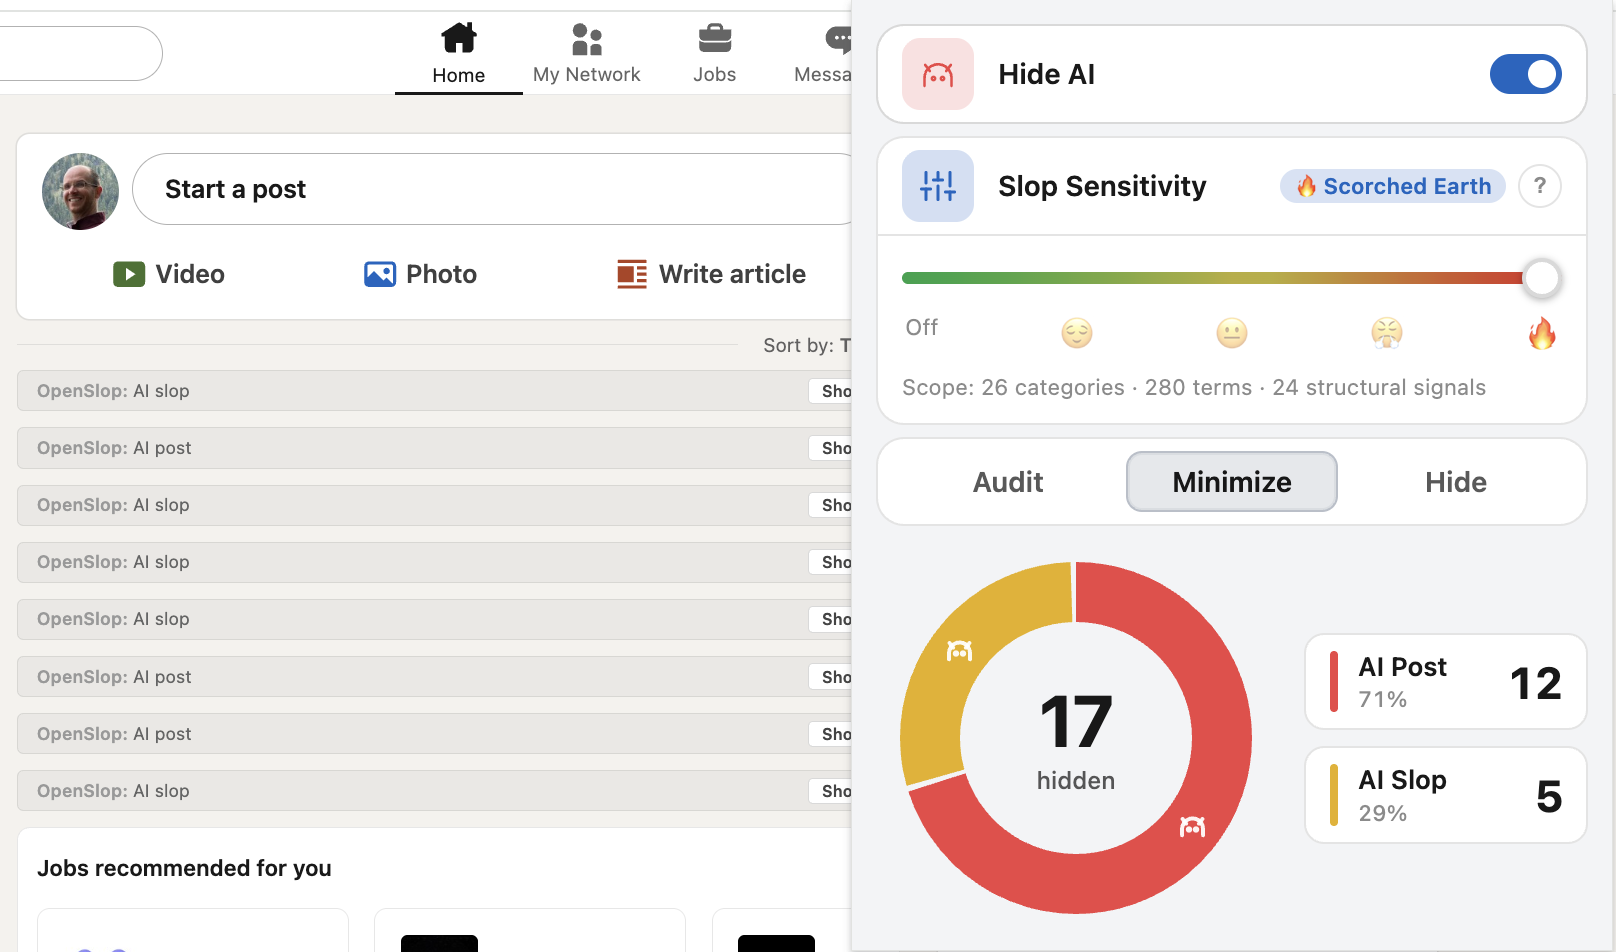
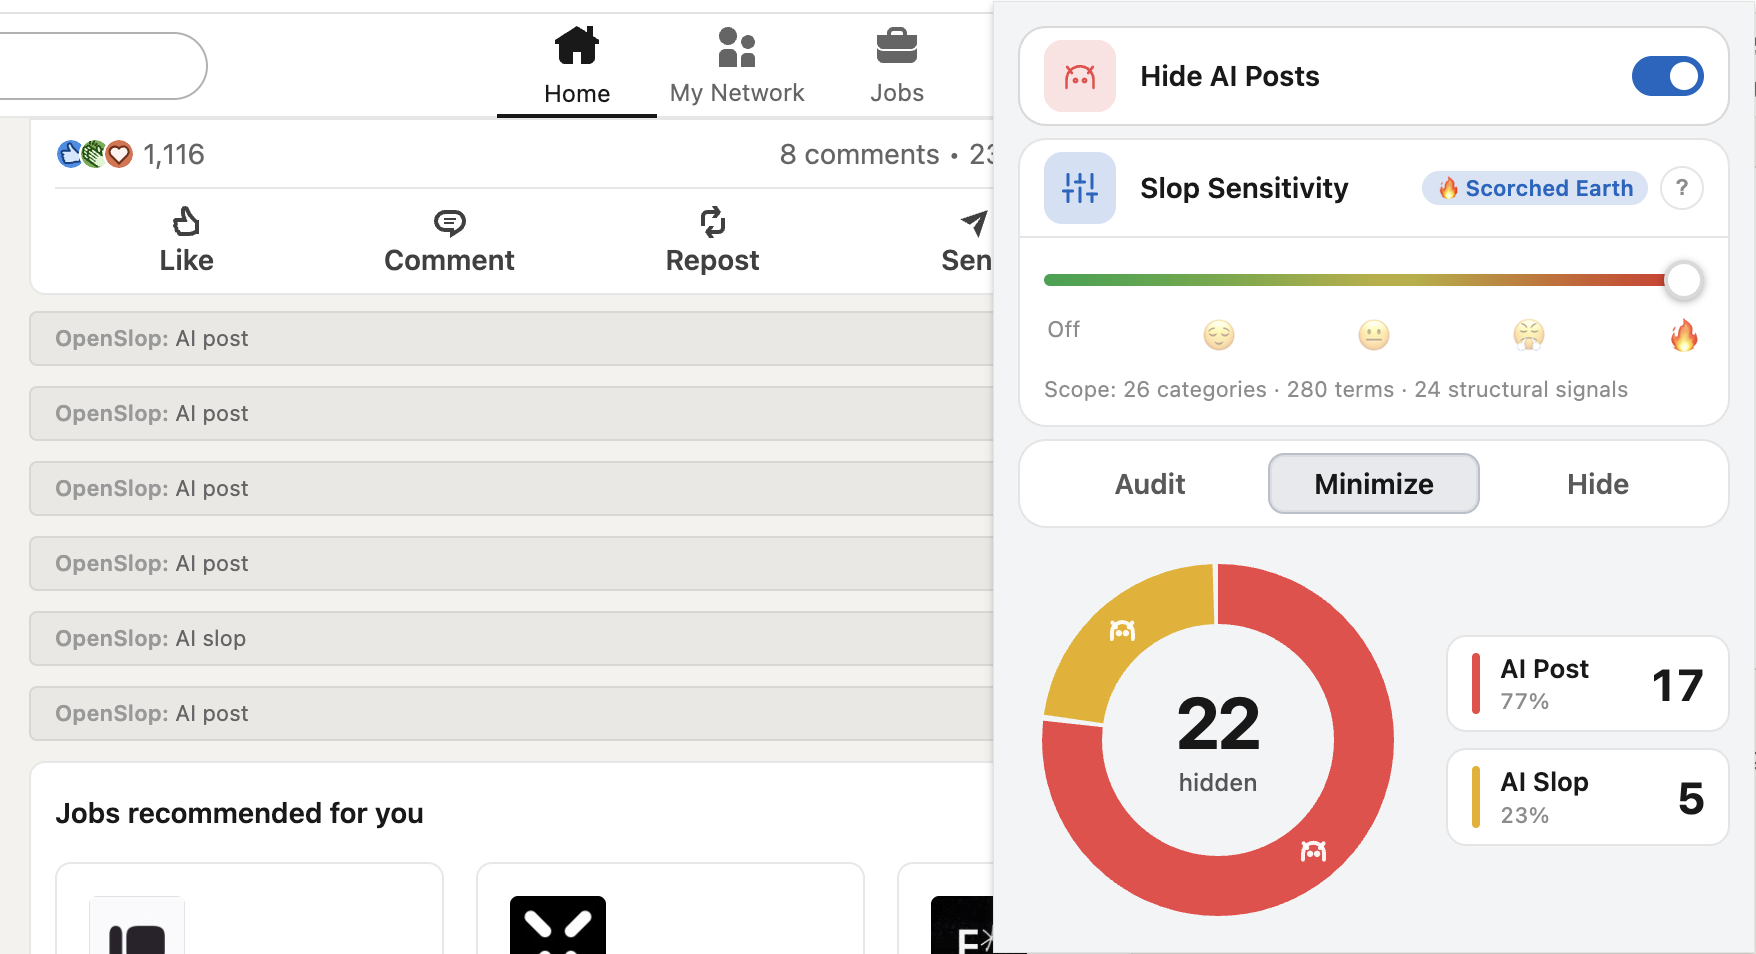
Regenerate popup-screenshot.png — clean viewport, current label
- New capture shows the renamed "Hide AI Posts" toggle (was "Hide AI"
  in the old screenshot) so the README image matches the live UI.
- Top-left now shows the engagement bar of an existing post instead
  of the "Start a post" card, so the personal LinkedIn profile
  thumbnail is no longer visible.
- README alt text updated: donut now shows 22 hidden (AI Post 17 /
  AI Slop 5) instead of 17 / 12 / 5; alt text updated to match.

CHANGELOG: removed the "screenshot needs regeneration" note in
[Unreleased] since the regeneration is happening in this commit, and
added a positive entry noting what was done.

diff --git a/CHANGELOG.md b/CHANGELOG.md
@@ -13,11 +13,12 @@ project follows [Semantic Versioning](https://semver.org/spec/v2.0.0.html).
   glance. Aria-label updated to match. The slop slider keeps its
   "Slop Sensitivity" title, and the on-screen sensitivity badge
   ("Off / Light / Medium / Strict / 🔥 Scorched Earth") and per-level
-  forecast drawer are untouched. Note: `docs/popup-screenshot.png`
-  still shows "Hide AI" and needs regeneration. When regenerating,
-  also scrub the personal LinkedIn profile thumbnail visible in the
-  "Start a post" card (top-left of frame) — use an anonymized account
-  or crop / blur that region before committing.
+  forecast drawer are untouched.
+- **`docs/popup-screenshot.png` regenerated** to show the current
+  "Hide AI Posts" label, captured from a viewport with no personal
+  profile thumbnail visible. Donut counters reflect a longer session
+  (22 hidden — AI Post 17 / AI Slop 5). README alt text updated to
+  match the new counts.
 - **Fresh-install defaults raised to "filter on, filter hard."**
   `HU.DEFAULT_SETTINGS.slopSensitivityLevel` 0 → 4 (Scorched Earth)
   and `HU.DEFAULT_SETTINGS.aiFilterEnabled` false → true, so a

diff --git a/README.md b/README.md
@@ -54,7 +54,7 @@ can be dropped in without touching the rest.
 
 ## What it does
 
-![OpenSlop popup overlaid on a feed page, showing the Hide AI Posts toggle, the Slop Sensitivity slider at Scorched Earth, the Audit/Minimize/Hide segmented control, and a session donut chart with 17 hidden items split between AI Post and AI Slop categories.](./docs/popup-screenshot.png)
+![OpenSlop popup overlaid on a feed page, showing the Hide AI Posts toggle, the Slop Sensitivity slider at Scorched Earth, the Audit/Minimize/Hide segmented control, and a session donut chart with 22 hidden items split between AI Post (17) and AI Slop (5) categories.](./docs/popup-screenshot.png)
 
 The popup is one screen — three small cards and a session donut:
 
